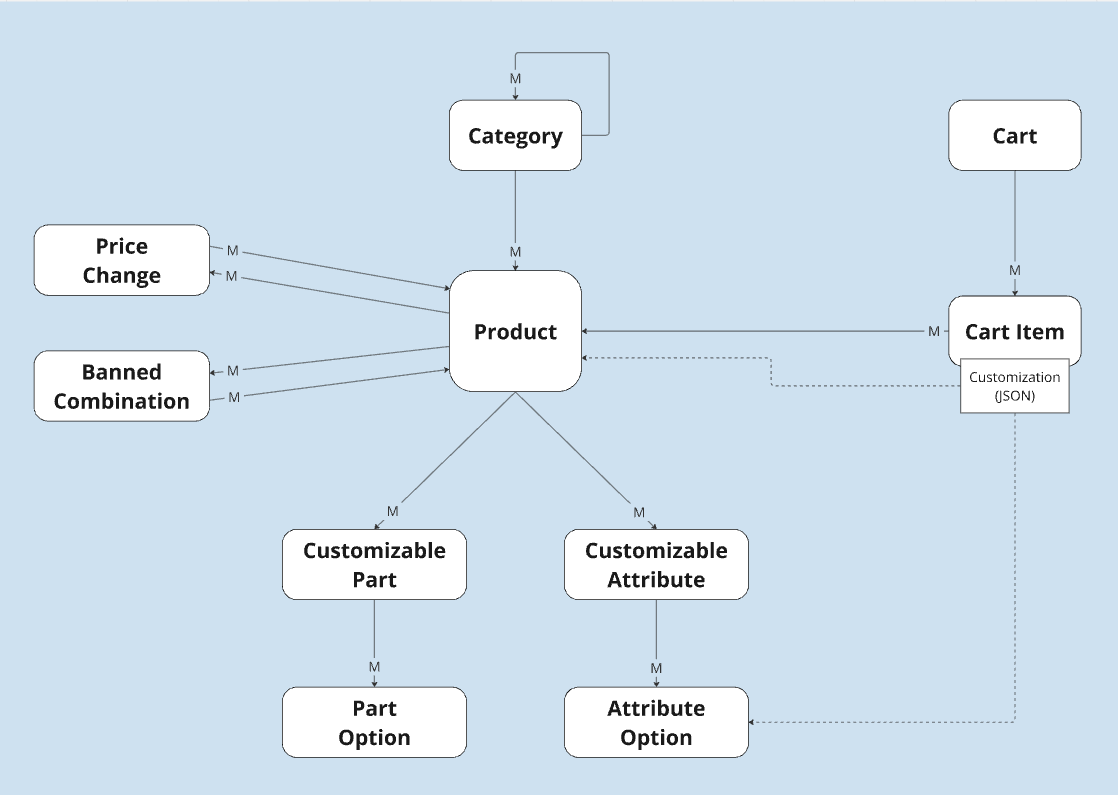
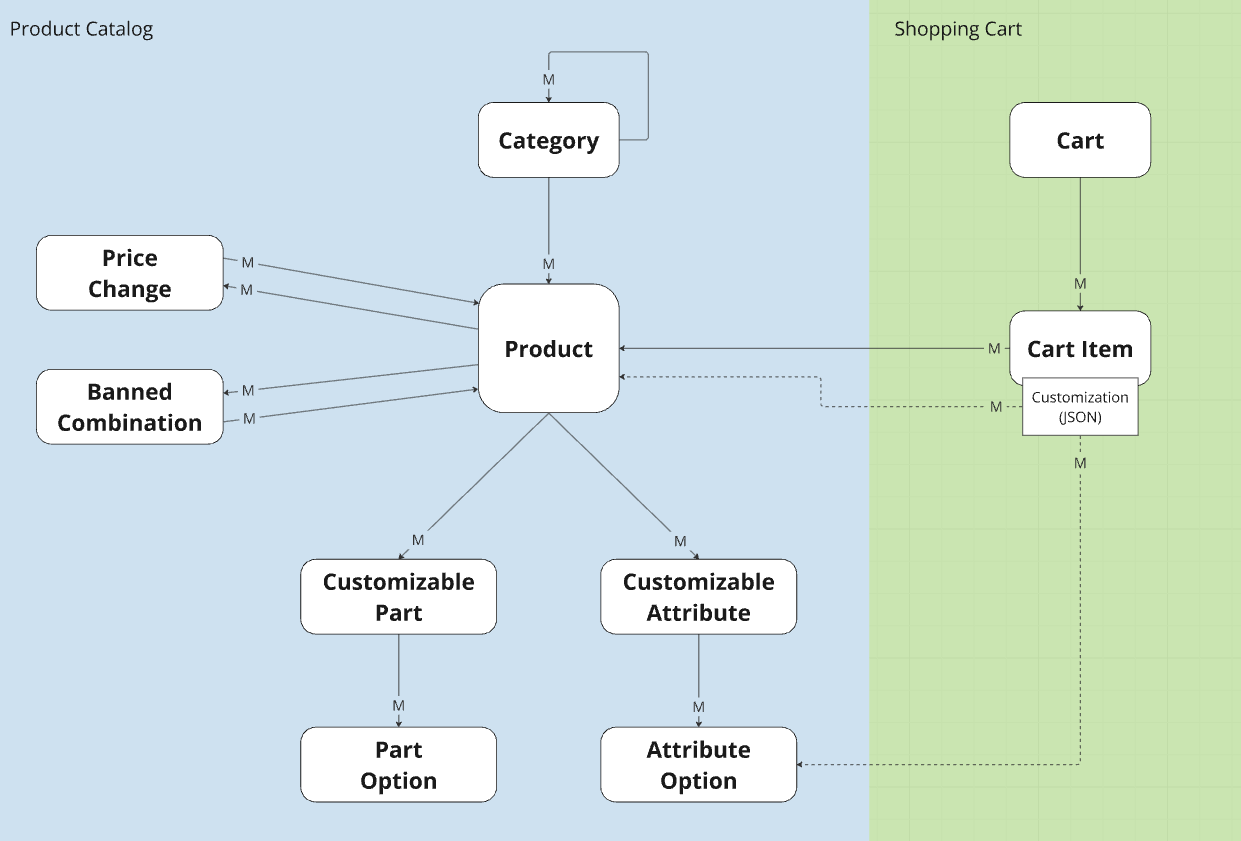
Improve README

diff --git a/app/models/category.rb b/app/models/category.rb
@@ -1,8 +1,9 @@
 class Category < ApplicationRecord
   extend ActsAsTree::TreeWalker
-
+  
   acts_as_tree order: :order
 
+  belongs_to :category, foreign_key: :parent_id
   has_many :products
 
   validates :name, presence: true, uniqueness: { scope: :parent_id }

diff --git a/README.md b/README.md
@@ -91,12 +91,12 @@ Given the specifications sent to me via email (see the [PDF](doc/code_challenge_
 After carefuly reading the specifications provided I wrote down a list of requirements the app needs to fulfill:
 
 1. The shop's catalog not only have bikes on it. Many other types of **products** can be sold. Eg: surfboards, skis, roller skates.
-2. Products can be customized. Each product can have several **customizable parts**. Eg: a bike can have frame type, frame finish, wheels and wheels rim color as customizable parts.
-3. User have to choose the final parts for their customization. For each customizable part the user needs to choose from the available **part options**.
-4. Any part selected can avoid other parts to be selected too, no matter if they belong to different customizable parts. So, some **banned combinations** of parts exist.
-5. Parts can be marked as "temporarily out of stock" to avoid receiving orders of products with those parts on it.
-6. Price of products are either standalone or calculated based on their parts if they are customized.
-7. The price of parts can be different if they are combined with other parts in a product customization. So, the **price changes** can exist depending on other parts if they are selected.
+2. Products can be customized. Each product can have several **customizable parts** and **customizable attributes**. Eg: a bike can have frame type, frame finish, wheels, chain as customizable parts and size, rim color as customizable attributes.
+3. User have to choose the final parts and attributes for their customization. For each customizable part the user needs to choose from the available **part options** and for each customizable attribute from the available **attribute options**.
+4. Any part selected can avoid other parts to be selected too, no matter if they belong to different customizable parts. So, some **banned combinations** of parts exist. Attributes belongs to each product, that way we will only represent the "good combinations".
+5. Parts and attribute options can be marked as "temporarily out of stock" to avoid receiving orders of products with those parts or attributes on it.
+6. Price of products are either standalone or calculated based on their parts and attributes if they are customized.
+7. The price of parts can be different if they are combined with other parts in a product customization. So, the **price changes** can exist depending on other parts if they are selected. Also the attributes may imply price changes.
 
 ### Questions about the requirements
 
@@ -104,8 +104,9 @@ With the specifications and the requirements more clear some questions may appea
 
 1. *Are parts also products we can sell in isolation in the shop?* They could be, but we may not want to sell certain parts in isolation.
 2. *All the products must be customizable?* No, certain products can be sold as they are provided.
-3. *All the customizable parts are the same for all the products?* No, each product could have different customizable parts. Eg: "Customizable Bike" can have: frame type, frame finish, wheels, chain. Whereas "Ski set" can have: ski, bindings, poles
-4. *Can a part's price depend on more than one part that are selected too?* Yes, it may happen that a price changes for many other parts selected. Eg: frame color depends on frame type and frame finish. 
+3. *All the customizable parts are the same for all the products?* No, each product could have different customizable parts. Eg: "Customizable Bike" can have: frame type, frame finish, wheels and chain. Whereas "Ski set" can have: ski, bindings and poles.
+4. *All the customizable attributes are the same for all the products?* No, each product could have different customizable attributes. Eg: "Bike 1" can have "size" and "color". Whereas "Skiset 1" can have just "color".
+5. *Can a part's price depend on more than one part that are selected too?* Yes, it may happen that a price changes for many other parts selected. Eg: frame color depends on frame type and frame finish. 
 
 ### Assumptions
 
@@ -115,7 +116,8 @@ Given the questions we can assume certain things that will shape even more our s
 2. Not all the products have to be customizable. We need to mark the products as customizable. 
 3. In order to simplify this exercise, no customizable product can be a part option for another customizable product as this would require a hierarchy of customization that would make the UI much more complex.
 4. Customizable parts can differ from one product to another. This means that the possible options for the parts have to be provided while setting up each product.
-5. In order to permit multiple price changes we need to store those changes as increments for the standalone price. That way we can sum all the changes for the combinations of parts.
+5. Customizable attributes can differ from one product to another. This means that the possible options for the attributes have to be provided while setting up each product.
+6. In order to permit multiple price changes we need to store those changes as increments for the base price. That way we can sum all the changes for the combinations of parts and attributes.
 
 ## Solution
 
@@ -131,23 +133,56 @@ More concrete, I used [RSpec](https://rspec.info/) as testing framework, [Tailwi
 
 ### Data model
 
-We can identify two different domains for this project, the **Product Catalog** domain and the **Cart** domain.
+We can identify two main domains for this project, the **Product Catalog** domain and the **Shopping Cart** domain. 
 
 ![ER Diagram](doc/assets/ER_diagram.png)
 
 #### Product Catalog domain
 
-[Description]
+This domain comprises all the concepts related to the definition of the catalog. Categories, products and their customization are the main entities we can find here:
 
-This is the diagram for this domain:
+The core of this domain are the categories and products:
 
-[Diagram]
+![Core Catalog ER Diagram](doc/assets/catalog_core.png)
 
-Here you have a list of the entities identified:
+Here you have a specification of the core entities for the catalog:
+
+* **Category**
+
+  A category is a way of grouping products. Categories are part of a tree-like structure that help clustering the products.
+
+  *Table definition* ([source code](db/migrate/20241126103347_create_categories.rb)):
+
+  ```ruby
+  create_table :categories do |t|
+    # Name of the category
+    t.string :name
+
+    # Short description of the category
+    t.string :description
+
+    # Order among sibiling categories
+    t.integer :order
+
+    # Reference to the parent Category
+    t.belongs_to :parent, null: true, foreign_key: { to_table: 'categories' }
+    
+    # created_at and updated_at fields
+    t.timestamps
+  end
+  ```
+
+  *Relationships* ([source code](app/models/category.rb)):
+
+  ```ruby
+  belongs_to :category, foreign_key: :parent_id
+  has_many :products
+  ```
+
 
 * **Product** (app/models/product)
 
-  [Description]
+  The main entity for this project. Products are the things we seel in our store. A product can be in one category only.
 
   This is the table definition for the entity:
 
@@ -191,30 +226,6 @@ Here you have a list of the entities identified:
   end
   ```
 
-* **Category**
-
-  A category is a group of products. Categories are part of a hierarchical structure that help clustering the products.
-
-  This is the table definition for the entity:
-
-  ```ruby
-  create_table :categories do |t|
-    # Name of the category
-    t.string :name
-
-    # Short description of the category
-    t.string :description
-
-    # Order among sibiling categories
-    t.integer :order
-
-    # Reference to the parent Category
-    t.belongs_to :parent, null: true, foreign_key: { to_table: 'categories' }
-    
-    # created_at and updated_at fields
-    t.timestamps
-  end
-  ```
 
 #### Cart domain
 
